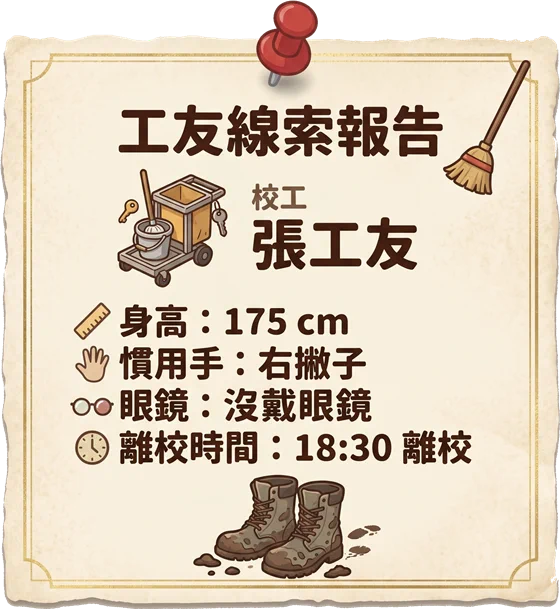
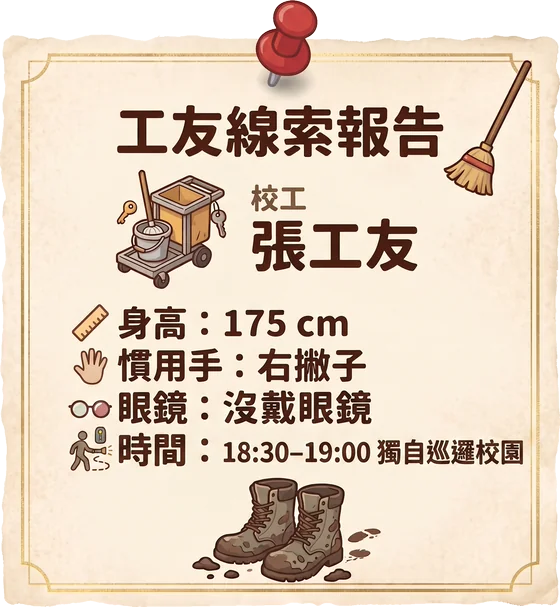
換上三張新的嫌疑人卡片，並把案件資料改回「各差一項」的設計
張工友、李主任、林館長的卡片圖重繪，案件資料以卡片圖為準同步更新。
林館長那張順便修掉「林館師」的錯字。

- 張工友：18:30 離校 → 18:30–19:00 獨自巡邏校園（恢復他的作案機會）
- 李主任：全程開會 → 18:40 離席 10 分鐘；鞋子那行拿掉「等於 173cm」，
  把加法留給玩家自己算，這是全題唯一的陷阱
- 林館長：180／左撇子／沒戴眼鏡／全程在圖書館
  → 166／右撇子／戴單片眼鏡／18:50 離開櫃台去書庫

suspects / records / puzzle.suspects / 放大字幕 / truth 五處一併更新。
驗證：四份資料一致、truth 與證詞相符、四項全中者唯一且等於 culprit、
每人只差一項且差的項互不重複、拿掉任一欄都會剩兩人並列（四項缺一不可）。

圖片處理：去背（依背景色的等比暗化判定，保留彩色飾物）→ 只留最大連通區塊
（順帶去掉右下角的生成浮水印）→ 裁切 → lanczos 縮到 560 寬 →
libwebp q85 / yuva420p，與原有卡片同規格。

diff --git a/assets/js/detective-case-owl.js b/assets/js/detective-case-owl.js
@@ -246,8 +246,9 @@ window.DETECTIVE_CASE = {
     ],
 
     // ---- 嫌疑人 ----
-    // ★ 五個人的設計是「每個人都只差一項」（見 UI01 puzzle.truth 上面那張表）——
-    //   拿掉任何一欄物證，就會有兩個人並列，四項缺一不可。
+    // ★ 這份資料的來源是嫌疑人卡片圖（assets/images/detective/suspect1–5.webp）——
+    //   身高／慣用手／眼鏡／案發時段都印在圖上，字是烘進圖裡的。
+    //   所以改這裡的數值就必須一起重生那張圖，否則玩家會同時看到兩個版本。
     //   要加減嫌疑人的話，記得同步：records（黑板）／puzzle.suspects／puzzle.truth，
     //   三份的順序必須一致。
     suspects: [
@@ -263,13 +264,13 @@ window.DETECTIVE_CASE = {
         },
         {
             id: 'chen', emoji: '📚', name: '陳老師', role: '美術老師',
-            testimony: '172cm／右撇子／戴單片眼鏡／18:40 離開會議室 15 分鐘',
+            testimony: '172cm／右撇子／戴單片眼鏡／18:40 離席 15 分鐘',
             wrong: '',
         },
         {
             id: 'lin', emoji: '📖', name: '林館長', role: '圖書館館長',
-            testimony: '180cm／左撇子／沒戴眼鏡／全程在圖書館',
-            wrong: '林館長沒戴眼鏡，且全程在圖書館。',
+            testimony: '166cm／右撇子／戴單片眼鏡／18:50 離開櫃台去書庫',
+            wrong: '林館長戴單片眼鏡、是右撇子，18:50 也確實離開了櫃台去書庫 —— 可是他只有 166cm，離鑑識報告推算的 170cm 還差一截。館裡拿高一點的書他都得踩梯子，總不可能扛著梯子去搬走雕像。',
         },
         {
             id: 'zhou', emoji: '🏐', name: '周教練', role: '體育老師',
@@ -643,6 +644,7 @@ window.DETECTIVE_CASE = {
                     emoji: '👔', name: '李主任', role: '教務主任',
                     facts: ['168 cm', '左撇子', '戴單片眼鏡', '離席 10 分鐘'],
                     // ★ 別寫「等於 173cm」—— 加起來這一步正是這題唯一的陷阱，要留給玩家自己算
+                    //   （卡片圖上也刻意只印「厚底鞋 +5cm」，兩邊要保持一致）
                     note: '厚底鞋 +5cm',
                 },
                 {
@@ -742,9 +744,9 @@ window.DETECTIVE_CASE = {
                         // 每格填 ✓（符合）或 ✗（不符合）
                         // 欄位順序：單片眼鏡 / 右手施力 / 身高>170 / 有機會作案
                         //
-                        // ★ 設計原則：真兇四項全中，其他四個人「各差一項」，而且差的是不同項 ——
-                        //   拿掉任何一欄，就會有兩個人並列，所以四條線索缺一不可。
-                        //   （少一個人就一定會有一欄變成可有可無，見下表最右欄）
+                        // ★ 這張表必須跟嫌疑人卡片圖（suspect1–5.webp）上印的屬性一致。
+                        //   目標設計是「真兇四項全中，其他人各只差一項，而且差的是不同項」——
+                        //   這樣拿掉任何一欄都會有兩個人並列，四條線索缺一不可。
                         //       張工友  ✗眼鏡  ✓右手  ✓身高  ✓時間   ← 只有「沒戴眼鏡」刷得掉他
                         //       李主任  ✓眼鏡  ✗右手  ✓身高  ✓時間   ← 只有「右手施力」刷得掉他
                         //       陳老師  ✓      ✓      ✓      ✓       ← 真兇
@@ -752,6 +754,7 @@ window.DETECTIVE_CASE = {
                         //       周教練  ✓眼鏡  ✓右手  ✓身高  ✗時間   ← 只有「案發時段」刷得掉他
                         //   只拿到鑑識報告（身高＋時段）時剩張、李、陳三個候選，
                         //   再補一幅畫還是剩兩個 —— 兩幅畫都得查完才收斂到一個人。
+                        //   李主任 168＋厚底鞋 5＝173 是唯一的陷阱：沒把鞋加上去就會誤刷掉他。
                         truth: [
                             [false, true, true, true],
                             [true, false, true, true],
@@ -762,7 +765,7 @@ window.DETECTIVE_CASE = {
                         // ★ 只留「有陷阱、慢慢比」，判斷規則本身不要寫進來 ——
                         //   那等於幫玩家把整個矩陣讀了一遍。
                         // ★ 控制在一行（12px／寬 610 約 50 字）
-                        hint: '五個人裡只有一個人四項全中，其他人都只差一項。證詞忘了就點黑板放大看卡片 —— 有一張藏了陷阱喔。',
+                        hint: '五個人裡只有一個人四項全中，其他人都只差一項。證詞忘了就點黑板放大看卡片 —— 有一張藏了陷阱，別看到數字就急著打叉。',
                     },
                     solvedText: '交叉比對完成！五個人裡，只有一個人四項物證全部符合 —— 現在可以指認真兇了。',
                     gives: 'c6',
